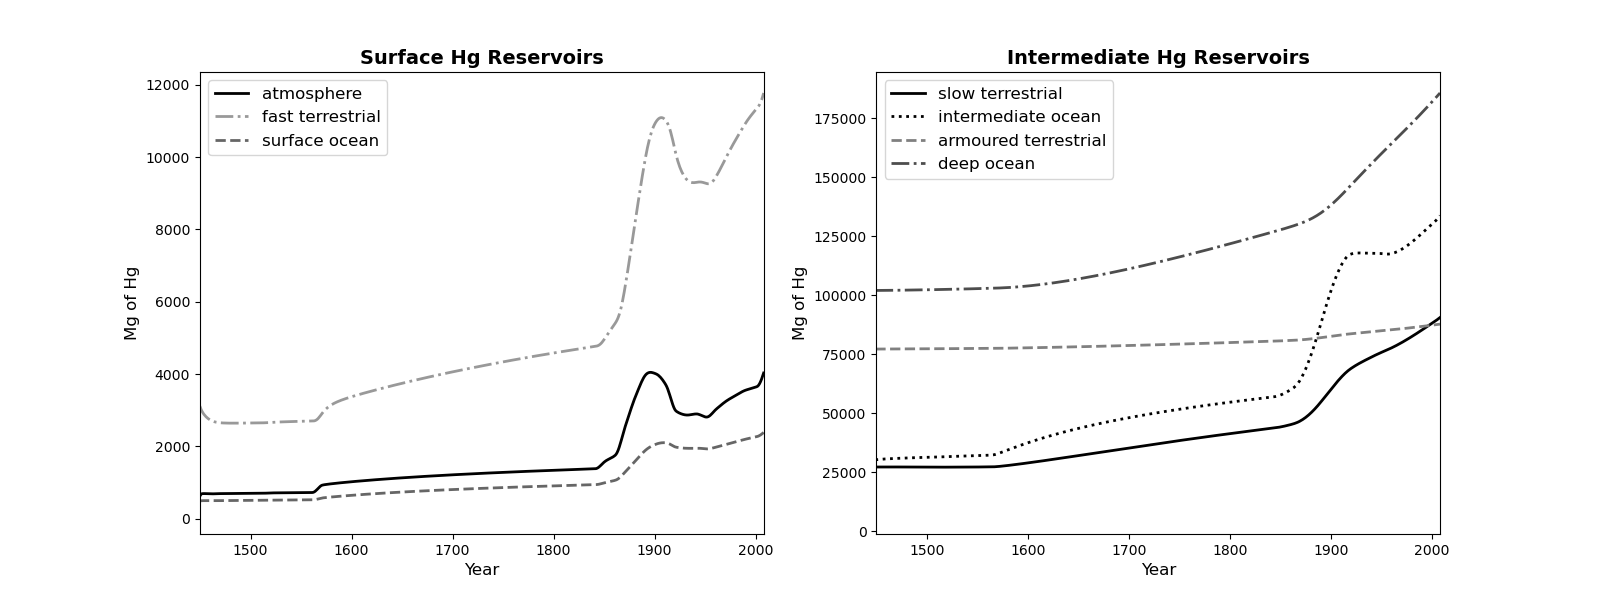
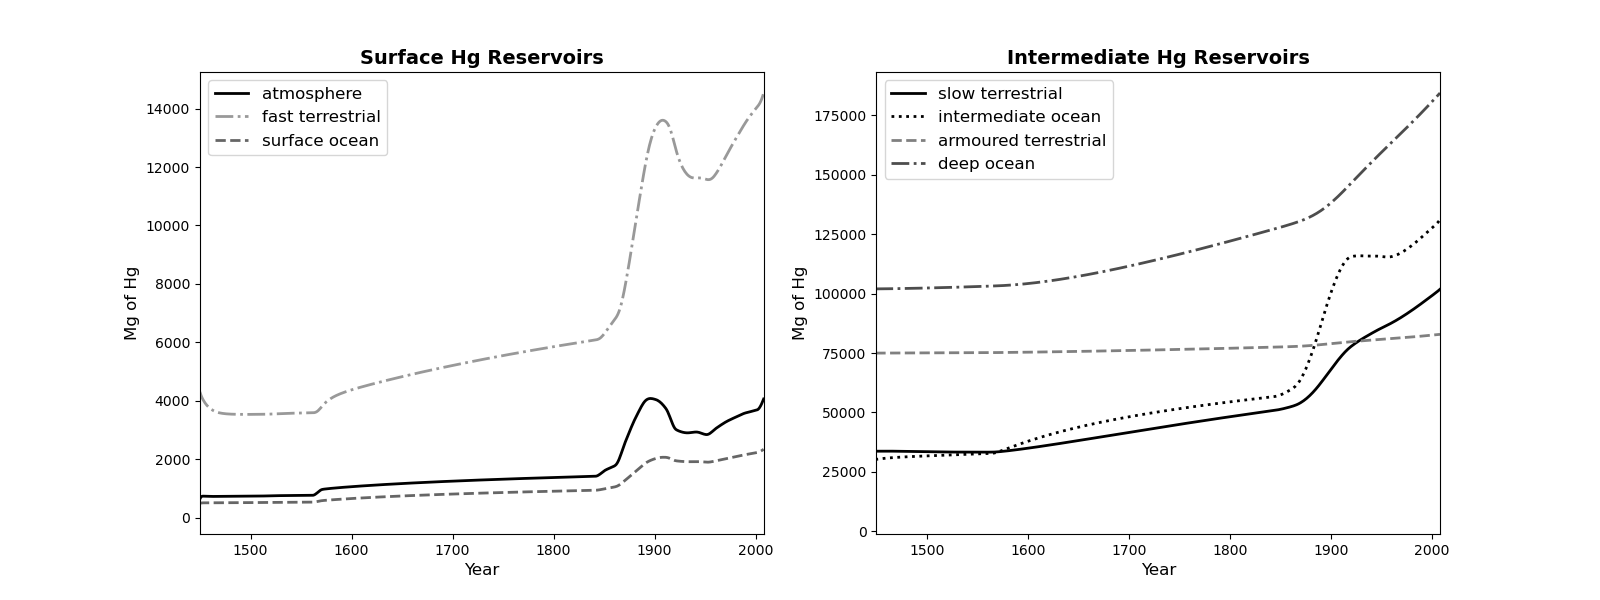
Altered river fluxes to be in the middle of terr export and open ocean incoming

diff --git a/sevenbox_selin.py b/sevenbox_selin.py
@@ -66,7 +66,7 @@ def sixboxmercury(state,t):
     deposition = state[7]
     geogenic = 90
     katmland = 0.5
-    f_dep_f = 0.67 # fraction of atmospheric deposition to fast
+    f_dep_f = 0.68 # fraction of atmospheric deposition to fast
     f_dep_s = 0.3 # fraction of atmospheric deposition to slow
     f_dep_a = 1 - f_dep_f - f_dep_s  # fraction of atmospheric deposition to armoured
     
@@ -81,9 +81,9 @@ def sixboxmercury(state,t):
     ksoilsf = 0.0059 # slow to fast exchange   
     ksoilsa = 1.4e-5 # slow to armoured exchange   
     ksoilaf = 7.7e-5 # armoured to fast exchange
-    kriverf = 0.074  
-    krivers = 5.3e-4
-    krivera = 5.3e-5 
+    kriverf = 0.051 
+    krivers = 3.6e-4
+    krivera = 3.6e-5 
     ksinking = 3.5
     kupwelling = 0.053
     kdeepsinking = 0.0061
